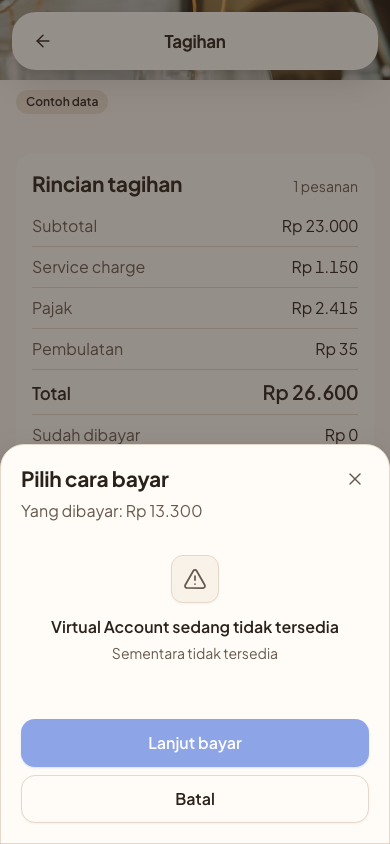
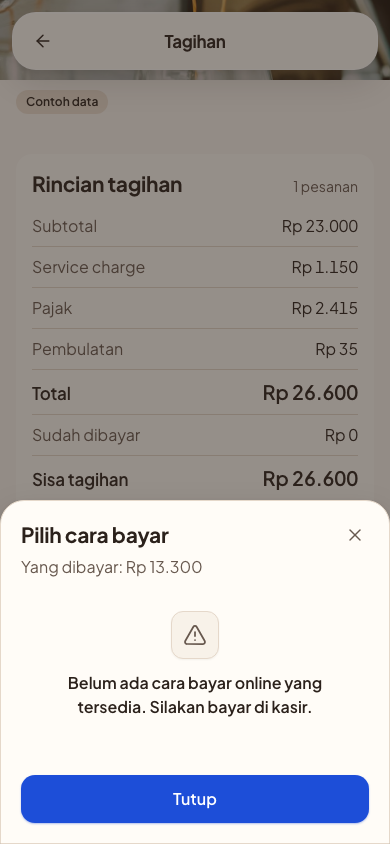
fix(web): pay dialog with no methods says to pay at the cashier and offers only Tutup
With an empty method list the dialog now shows "Belum ada cara bayar online yang
tersedia. Silakan bayar di kasir." (catalog key qrOrders.bill.payNoMethods) with no
generic empty hint. When there is nothing to choose (empty list or options error) the
footer has a single Tutup button instead of a pay button that can never work. The method
and bank rows are locked while the payment request is in flight. Retakes all 18 dialog
screenshots.

Changed region(s): [[0.0, 0.5237, 1.0, 0.9858]]

diff --git a/apps/web/src/features/ws03-qr-order/components/bill/pay-dialog.tsx b/apps/web/src/features/ws03-qr-order/components/bill/pay-dialog.tsx
@@ -151,6 +151,10 @@ export function PayDialog({
   const bank =
     current?.banks.find((item) => item.code === pickedBank)?.code ??
     (current?.banks.length === 1 ? current.banks[0]!.code : null);
+  // Nothing to choose (options failed or the list is empty): the only honest
+  // action is to close, so no disabled pay button is shown.
+  const nothingToPay =
+    options.isError || (options.data !== undefined && methods.length === 0);
   const canSubmit =
     target !== null && current !== undefined && (!needsBank || bank !== null);
 
@@ -225,13 +229,14 @@ export function PayDialog({
         ) : methods.length === 0 ? (
           <EmptyState
             icon={TriangleAlert}
-            title={t("qrGlass.pay.va.unavailableTitle")}
-            description={t("payment.methodUnavailable")}
+            title={t("qrOrders.bill.payNoMethods")}
+            description=""
             className="py-4"
           />
         ) : (
           <div className="-mx-1 grid max-h-[55dvh] gap-3 overflow-y-auto px-1 py-1">
             <RadioGroup.Root
+              disabled={start.isPending}
               value={current?.method ?? ""}
               onValueChange={(next) => {
                 setPicked(next);
@@ -287,6 +292,7 @@ export function PayDialog({
                   {t("qrGlass.pay.va.bankLegend")}
                 </legend>
                 <RadioGroup.Root
+                  disabled={start.isPending}
                   value={bank ?? ""}
                   onValueChange={setPickedBank}
                   aria-labelledby="pay-bank-legend"
@@ -335,26 +341,28 @@ export function PayDialog({
         )}
         <DialogFooter>
           <Button
-            variant="outline"
+            variant={nothingToPay ? "default" : "outline"}
             onClick={() => handleOpenChange(false)}
             disabled={start.isPending}
             type="button"
           >
-            {t("common.cancel")}
+            {nothingToPay ? t("common.close") : t("common.cancel")}
           </Button>
-          <Button
-            onClick={submit}
-            loading={start.isPending}
-            disabled={!canSubmit}
-            type="button"
-          >
-            {amountIdr > 0 && current
-              ? t("qrOrders.bill.payWith", {
-                  amount: formatRupiah(amountIdr),
-                  method: currentLabel,
-                })
-              : t("qrOrders.bill.payContinue")}
-          </Button>
+          {!nothingToPay && (
+            <Button
+              onClick={submit}
+              loading={start.isPending}
+              disabled={!canSubmit}
+              type="button"
+            >
+              {amountIdr > 0 && current
+                ? t("qrOrders.bill.payWith", {
+                    amount: formatRupiah(amountIdr),
+                    method: currentLabel,
+                  })
+                : t("qrOrders.bill.payContinue")}
+            </Button>
+          )}
         </DialogFooter>
       </DialogContent>
     </Dialog>

diff --git a/apps/web/test/ws03-pay-dialog.test.ts b/apps/web/test/ws03-pay-dialog.test.ts
@@ -505,6 +505,10 @@ describe("ws03 pay dialog: unavailable methods", () => {
     const html = render();
 
     expect(radios(html)).toHaveLength(0);
+    expect(html).toMatch(
+      /Belum ada cara bayar online yang tersedia\. Silakan bayar di kasir\./,
+    );
+    expect(html).not.toMatch(/Virtual Account sedang tidak tersedia/);
     await submit();
     expect(submitted).toHaveLength(0);
   });
@@ -513,15 +517,18 @@ describe("ws03 pay dialog: unavailable methods", () => {
     h.options = [qris, va];
     expect(render()).toMatch(/Bayar[^<]*dengan QRIS/);
 
-    for (const none of [
-      [],
-      [disabled("qris", "gateway_down"), disabled("va", "gateway_down")],
-    ]) {
-      h.options = none;
-      const html = render();
-      expect(html).toMatch(/Lanjut bayar/);
-      expect(html).not.toMatch(/dengan\s*</);
-    }
+    // Every method off: the disabled CTA falls back to the plain label.
+    h.options = [
+      disabled("qris", "gateway_down"),
+      disabled("va", "gateway_down"),
+    ];
+    const allOff = render();
+    expect(allOff).toMatch(/Lanjut bayar/);
+    expect(allOff).not.toMatch(/dengan\s*</);
+
+    // Empty list: no pay button at all (only Tutup), so no dangling label either.
+    h.options = [];
+    expect(render()).not.toMatch(/dengan\s*</);
   });
 });
 
@@ -715,6 +722,36 @@ describe("ws03 pay dialog: no closing while the start request runs", () => {
     expect(cancel?.disabled).toBe(true);
     h.dialogOnOpenChange?.(false);
     expect(onOpenChange).not.toHaveBeenCalled();
+  });
+
+  test("while the request runs, the method rows cannot be changed", () => {
+    h.options = [qris, va];
+    h.pending = true;
+    const html = render();
+
+    expect(radios(html).length).toBeGreaterThan(0);
+    expect(radios(html).every((item) => item.disabled)).toBe(true);
+  });
+
+  test("no methods: only Tutup, no dead pay button, no generic empty hint", () => {
+    h.options = [];
+    const html = render();
+    const labels = h.buttons.map((entry) => entry.text);
+
+    expect(labels).toContain(t("common.close"));
+    expect(labels).not.toContain(t("common.cancel"));
+    expect(labels).not.toContain(t("qrOrders.bill.payContinue"));
+    expect(labels.some((text) => /^Bayar /.test(text))).toBe(false);
+    expect(html).not.toMatch(/Data akan muncul di sini/);
+  });
+
+  test("with methods the pay button and Batal stay", () => {
+    h.options = [qris, va];
+    render();
+    const labels = h.buttons.map((entry) => entry.text);
+
+    expect(labels).toContain(t("common.cancel"));
+    expect(labels.some((text) => /^Bayar /.test(text))).toBe(true);
   });
 
   test("when idle, Cancel and Escape close the dialog", () => {

diff --git a/packages/shared/src/i18n/messages/qr-orders-bill.ts b/packages/shared/src/i18n/messages/qr-orders-bill.ts
@@ -106,6 +106,8 @@ export const qrOrdersBillMessages = {
   methodEwallet: "E-wallet",
   methodEwalletHint: "Lanjut ke aplikasi e-wallet Anda.",
   payContinue: "Lanjut bayar",
+  payNoMethods:
+    "Belum ada cara bayar online yang tersedia. Silakan bayar di kasir.",
   payPickBankFirst: "Pilih bank dulu",
   payWith: "Bayar {amount} dengan {method}",
   payFailed: "Pembayaran belum bisa dimulai. Periksa koneksi, lalu coba lagi.",

diff --git a/docs/screenshots/945/README.md b/docs/screenshots/945/README.md
@@ -27,7 +27,7 @@ File name: `<screen>-<state>-<desktop|mobile>-<light|dark>.png`.
 | table A01, bill page after "Buat pembagian", button Bayar bagian ini, dialog `pay-dialog.tsx` | empty: `?mock=empty` (dialog: VA bank list empty) | bayar-tamu-dialog-empty-* | 2/2 captured |
 | table A01, bill page after "Buat pembagian", button Bayar bagian ini, dialog `pay-dialog.tsx` | error: `?mock=error`, waits for `[data-slot=error-state]` (dialog: 3 queued `failNext` on payment-options before opening, to outlast the 2 query retries) | bayar-tamu-dialog-error-* | 2/2 captured |
 | table A01, bill page after "Buat pembagian", button Bayar bagian ini, dialog `pay-dialog.tsx` | va-down: cookie `legend-mock-va=down` set before opening: VA row disabled with its reason text | bayar-tamu-dialog-va-down-* | 2/2 captured |
-| table A01, bill page after "Buat pembagian", button Bayar bagian ini, dialog `pay-dialog.tsx` | no-methods: no scenario or cookie gives an empty method list, so before opening the script re-registers the mock handler of `GET /api/table-sessions/:sessionId/payment-options` in page memory (`registerMock(..., { replace: true })` via a dynamic import of `/src/lib/mock/registry.ts`) to answer `{ methods: [] }`; the shot waits for the empty-state title and text and zero radios (no repo file is changed) | bayar-tamu-dialog-no-methods-* | 2/2 captured |
+| table A01, bill page after "Buat pembagian", button Bayar bagian ini, dialog `pay-dialog.tsx` | no-methods: no scenario or cookie gives an empty method list, so before opening the script re-registers the mock handler of `GET /api/table-sessions/:sessionId/payment-options` in page memory (`registerMock(..., { replace: true })` via a dynamic import of `/src/lib/mock/registry.ts`) to answer `{ methods: [] }`; the shot waits for the empty-state text (qrOrders.bill.payNoMethods) and zero radios (no repo file is changed) | bayar-tamu-dialog-no-methods-* | 2/2 captured |
 | table A01, bill page after "Buat pembagian", button Bayar bagian ini, dialog `pay-dialog.tsx` | pay-failed: options normal, QRIS picked, 3 `failNext` (500) queued on `POST /api/table-sessions/:sessionId/payments`, pay CTA clicked; the shot waits for the `payFailed` text with the dialog still open and the CTA no longer busy | bayar-tamu-dialog-pay-failed-* | 2/2 captured |
 | table A01, bill page after "Buat pembagian", button Bayar bagian ini, dialog `pay-dialog.tsx` | sending: options normal, QRIS picked, `setLatencyMs(8000)` set just before the pay CTA click (start call held 8 s); the shot waits for the CTA `aria-busy` and disabled with the dialog still open on the bill page (re-checked right before the shot); the dialog hides its close X while pending (`hideClose`; not asserted by the script) | bayar-tamu-dialog-sending-* | 2/2 captured |
 
